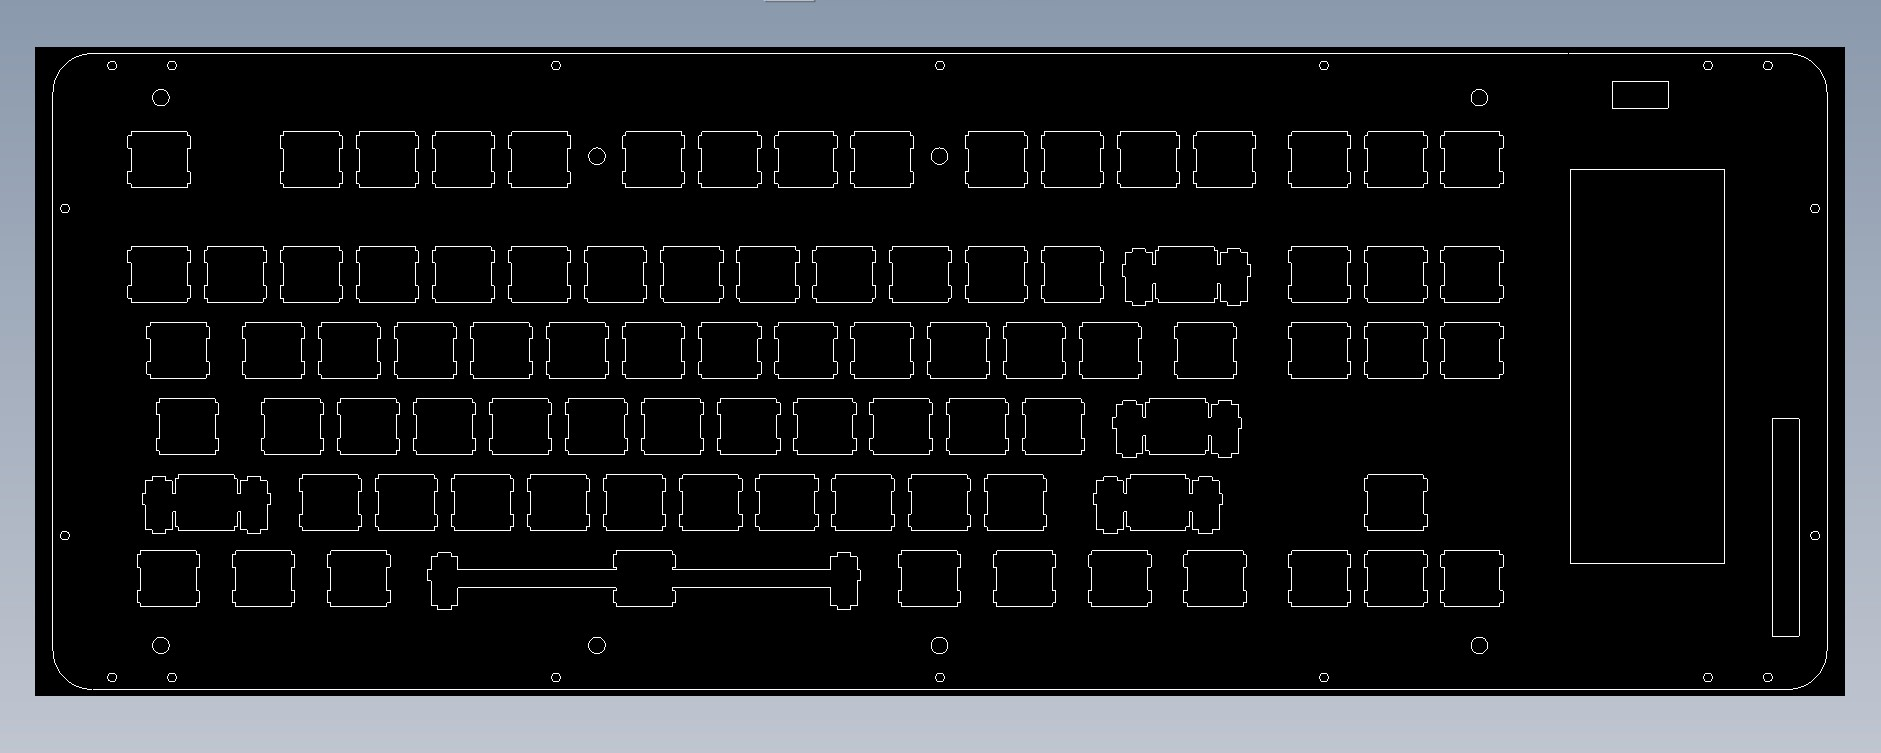
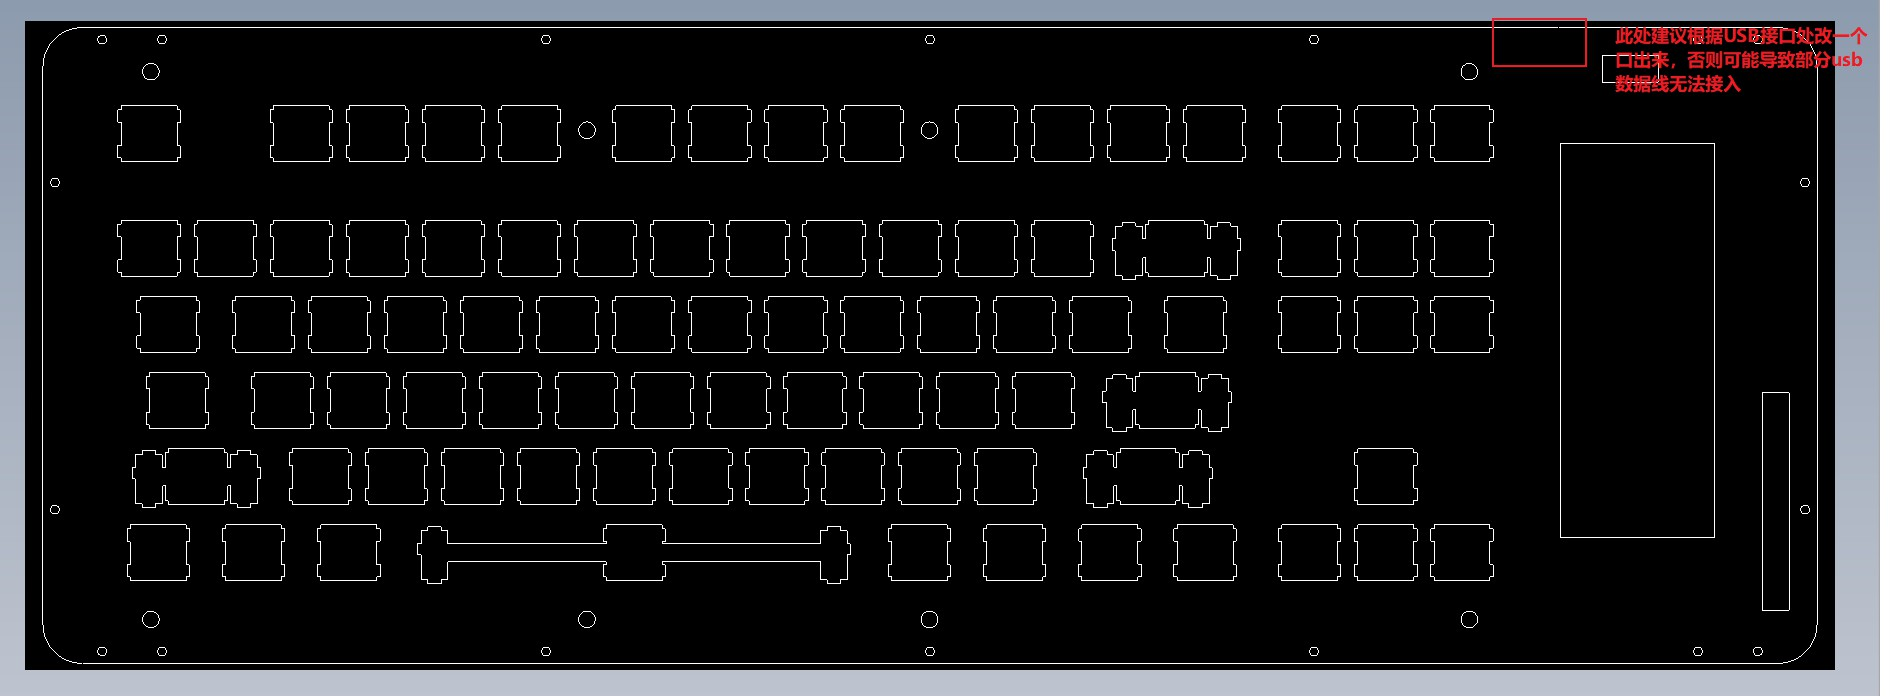
updata

diff --git a/readme.md b/readme.md
@@ -28,7 +28,7 @@
 <img src = "./image/keyboard6.jpg" width="800" />
 <img src = "./image/keyboard7.jpg" width="800" />
 
-**定位板：可以发加工黄铜定位板，铝定位板**
+**定位板：可以发加工黄铜定位板，铝定位板，此定位板可能需要自行修改一下，否则可能导致部分usb数据线无法接入**
 <img src = "./image/keyboard10.jpg" width="800" />
 **亚克力外壳：发亚克力加工 M2 M3螺丝**
 <img src = "./image/keyboard11.jpg" width="800" />
